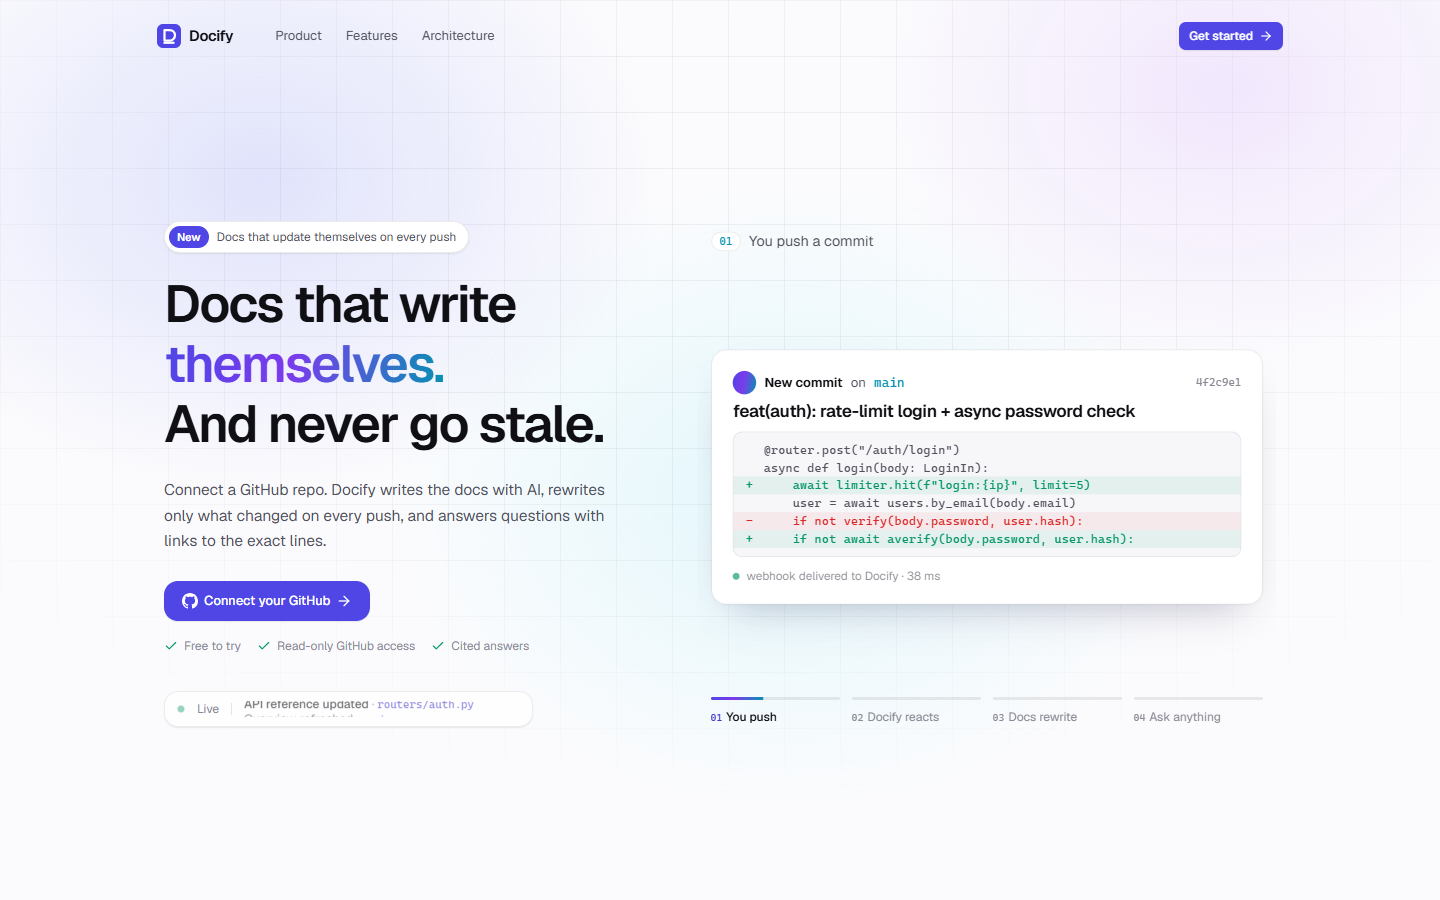
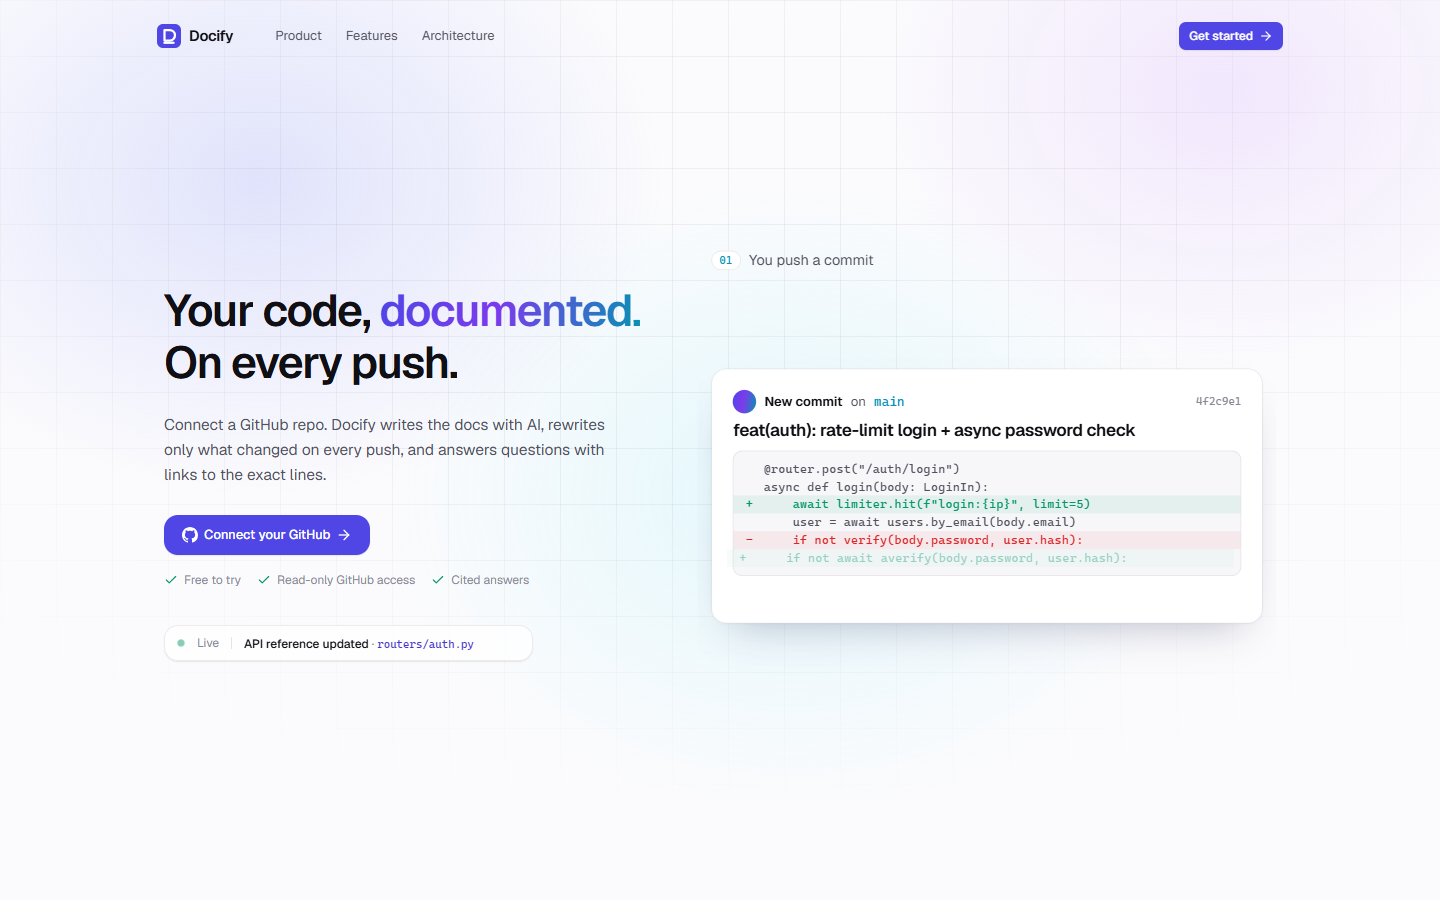
feat(landing): 2-line headline at every width, removed New pill and chapter progress bar from the hero

diff --git a/frontend/src/pages/landing/Hero.tsx b/frontend/src/pages/landing/Hero.tsx
@@ -1,13 +1,11 @@
 import { ArrowRight, Check, Play } from "lucide-react";
 import { AnimatePresence, motion } from "motion/react";
-import { lazy, Suspense, useCallback, useEffect, useRef, useState } from "react";
+import { lazy, Suspense, useEffect, useRef, useState } from "react";
 import { Link } from "react-router";
 import { GitHubIcon } from "@/components/BrandIcons";
 import { Button } from "@/components/ui";
-import { cn } from "@/lib/cn";
 import { Magnetic, SplitWords } from "./fx";
 import { EASE, useActive } from "./motion-utils";
-import { CHAPTERS, FILM } from "./remotion/config";
 
 // Start fetching the film chunk as soon as the landing chunk loads — it is the hero visual.
 const loadFilm = () => import("./DemoVideo");
@@ -35,9 +33,6 @@ export function Hero({ primaryHref, primaryLabel, demoHref }: {
 }) {
   const ref = useRef<HTMLElement>(null);
   const active = useActive(ref);
-  const [scene, setScene] = useState(0);
-  const [jump, setJump] = useState({ scene: 0, key: 0 });
-  const onScene = useCallback((s: number) => setScene(s), []);
 
   return (
     <section ref={ref} id="product" className="relative isolate overflow-hidden">
@@ -47,19 +42,10 @@ export function Hero({ primaryHref, primaryLabel, demoHref }: {
       <div className="mx-auto grid max-w-6xl grid-cols-1 items-center gap-12 px-5 pb-20 pt-32 sm:pt-36 lg:min-h-[min(100svh,900px)] lg:grid-cols-[minmax(0,0.92fr)_minmax(0,1.08fr)] lg:gap-10 lg:pb-16 lg:pt-28">
         {/* left: copy */}
         <div className="min-w-0 text-center lg:text-left">
-          <motion.span
-            {...fadeUp(0.05)}
-            className="inline-flex items-center gap-2 rounded-full border border-black/[0.08] bg-white py-1 pl-1 pr-3 text-xs text-fg-muted shadow-sm"
-          >
-            <span className="rounded-full bg-[var(--l-indigo)] px-2 py-0.5 text-[11px] font-semibold text-white">New</span>
-            <span className="sm:hidden">Docs that update on every push</span>
-            <span className="hidden sm:inline">Docs that update themselves on every push</span>
-          </motion.span>
-
-          <h1 className="mt-6 text-[clamp(2.2rem,3.6vw,3.25rem)] font-semibold leading-[1.04] tracking-[-0.045em]">
-            <SplitWords text="Your code, documented." delay={0.1} gradientWords={["documented."]} />
+          <h1 className="text-[clamp(1.6rem,7.4vw,2.9rem)] font-semibold leading-[1.06] lg:text-[clamp(2.1rem,3.1vw,2.85rem)] tracking-[-0.045em]">
+            <SplitWords text="Your code, documented." delay={0.1} gradientWords={["documented."]} className="whitespace-nowrap" />
             <br />
-            <SplitWords text="On every push." delay={0.3} />
+            <SplitWords text="On every push." delay={0.3} className="whitespace-nowrap" />
           </h1>
 
           <motion.p {...fadeUp(0.55)} className="mx-auto mt-5 max-w-md text-[15.5px] leading-relaxed text-fg-muted lg:mx-0">
@@ -104,7 +90,7 @@ export function Hero({ primaryHref, primaryLabel, demoHref }: {
           </motion.div>
         </div>
 
-        {/* right: live product stage + chapter progress */}
+        {/* right: live product stage */}
         <motion.div
           initial={{ opacity: 0, x: 30 }}
           animate={{ opacity: 1, x: 0 }}
@@ -113,64 +99,12 @@ export function Hero({ primaryHref, primaryLabel, demoHref }: {
         >
           <div className="mx-auto aspect-[84/68] w-full max-w-xl lg:max-w-none">
             <Suspense fallback={<div className="size-full" />}>
-              <DemoVideo active={active} jump={jump} onScene={onScene} />
+              <DemoVideo active={active} />
             </Suspense>
           </div>
-          <Chapters
-            scene={scene}
-            runKey={jump.key}
-            active={active}
-            onPick={(i) => {
-              setScene(i);
-              setJump((j) => ({ scene: i, key: j.key + 1 }));
-            }}
-          />
         </motion.div>
       </div>
     </section>
-  );
-}
-
-/** 4-step progress under the stage. The fill is a CSS animation (no per-frame React work). */
-function Chapters({ scene, runKey, active, onPick }: {
-  scene: number;
-  runKey: number;
-  active: boolean;
-  onPick: (i: number) => void;
-}) {
-  return (
-    <div role="tablist" aria-label="Product tour chapters" className="mx-auto mt-2 grid max-w-xl grid-cols-4 gap-2 px-1 sm:gap-3 sm:px-3">
-      {CHAPTERS.map((label, i) => {
-        const on = scene === i;
-        return (
-          <button
-            key={label}
-            type="button"
-            role="tab"
-            aria-selected={on}
-            title={`Jump to: ${label}`}
-            onClick={() => onPick(i)}
-            className="group cursor-pointer text-left"
-          >
-            <span className="block h-[3px] overflow-hidden rounded-full bg-black/[0.08]">
-              <span
-                key={on ? `${scene}-${runKey}` : "idle"}
-                className={cn("block h-full origin-left bg-[linear-gradient(100deg,#4f46e5,#7c3aed_45%,#0891b2)]", on && "l-fill")}
-                style={{
-                  transform: on ? undefined : `scaleX(${i < scene ? 1 : 0})`,
-                  animationDuration: `${FILM.scene / FILM.fps}s`,
-                  animationPlayState: active ? "running" : "paused",
-                }}
-              />
-            </span>
-            <span className={cn("mt-2 block truncate text-xs transition-colors", on ? "font-medium text-fg" : "text-fg-subtle group-hover:text-fg-muted")}>
-              <span className={cn("mr-1 font-mono text-[10px]", on ? "text-[var(--accent-text)]" : "")}>0{i + 1}</span>
-              {label}
-            </span>
-          </button>
-        );
-      })}
-    </div>
   );
 }
 

diff --git a/frontend/src/pages/landing/DemoVideo.tsx b/frontend/src/pages/landing/DemoVideo.tsx
@@ -3,17 +3,9 @@ import { useEffect, useRef } from "react";
 import { FILM, FILM_DURATION } from "./remotion/config";
 import { DocifyDemo } from "./remotion/DocifyDemo";
 
-/**
- * The hero stage film (Remotion, lazy chunk). Plays only while visible (`active`), reports scene changes
- * (only when the chapter changes, not every frame) and can be asked to jump to a scene.
- */
-export default function DemoVideo({ active, jump, onScene }: {
-  active: boolean;
-  jump: { scene: number; key: number };
-  onScene: (scene: number) => void;
-}) {
+/** The hero stage film (Remotion, lazy chunk). Loops, and plays only while visible (`active`). */
+export default function DemoVideo({ active }: { active: boolean }) {
   const player = useRef<PlayerRef>(null);
-  const current = useRef(0);
 
   useEffect(() => {
     const p = player.current;
@@ -21,29 +13,6 @@ export default function DemoVideo({ active, jump, onScene }: {
     if (active) p.play();
     else p.pause();
   }, [active]);
-
-  useEffect(() => {
-    const p = player.current;
-    if (!p) return;
-    const onFrame = (e: { detail: { frame: number } }) => {
-      const s = Math.min(3, Math.floor(e.detail.frame / FILM.scene));
-      if (s !== current.current) {
-        current.current = s;
-        onScene(s);
-      }
-    };
-    p.addEventListener("frameupdate", onFrame);
-    return () => p.removeEventListener("frameupdate", onFrame);
-  }, [onScene]);
-
-  // External jump (chapter click). `key` changes on every click, so re-clicking replays the chapter.
-  useEffect(() => {
-    const p = player.current;
-    if (!p || jump.key === 0) return;
-    current.current = jump.scene;
-    p.seekTo(jump.scene * FILM.scene);
-    p.play();
-  }, [jump]);
 
   return (
     <Player

diff --git a/frontend/src/pages/landing/landing.css b/frontend/src/pages/landing/landing.css
@@ -186,16 +186,3 @@
     animation: none;
   }
 }
-
-/* ---------------------------------------------------------------- hero chapter progress (transform only) */
-
-.l-fill {
-  animation-name: l-fill;
-  animation-timing-function: linear;
-  animation-fill-mode: forwards;
-}
-
-@keyframes l-fill {
-  from { transform: scaleX(0); }
-  to { transform: scaleX(1); }
-}

diff --git a/frontend/src/pages/landing/remotion/config.ts b/frontend/src/pages/landing/remotion/config.ts
@@ -1,5 +1,3 @@
 /** Hero stage film: 4 scenes of 5 s each, looping. */
 export const FILM = { width: 840, height: 680, fps: 30, scene: 150 } as const;
 export const FILM_DURATION = FILM.scene * 4;
-
-export const CHAPTERS = ["You push", "Docify reacts", "Docs rewrite", "Ask anything"] as const;
